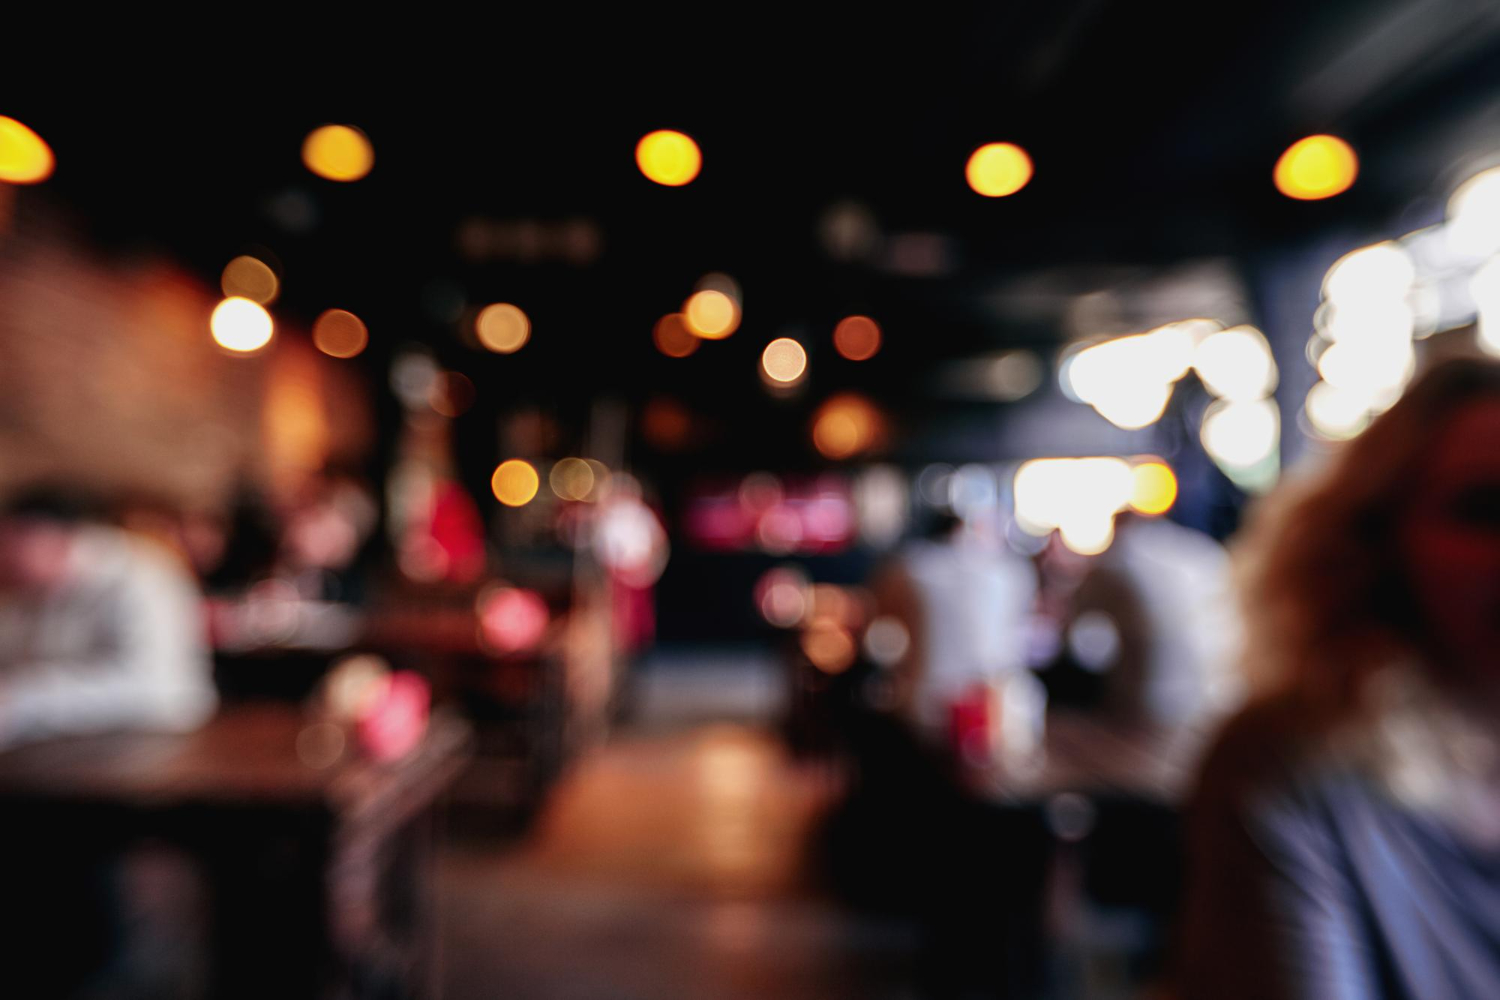
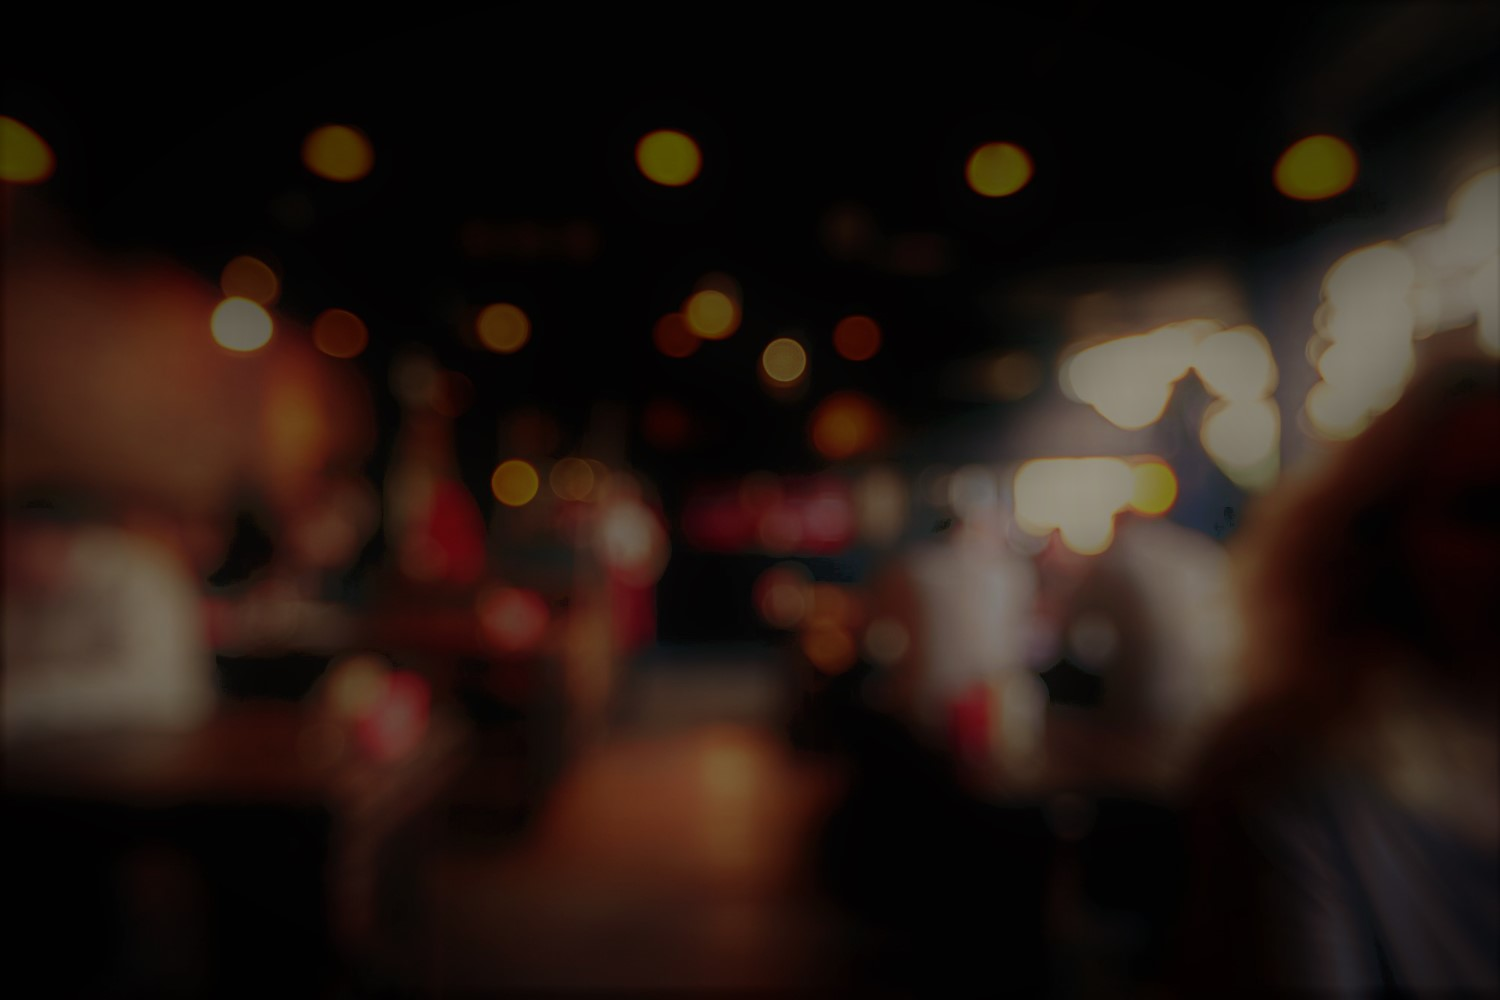
Featured Meals Section added

diff --git a/src/Pages/Homepage/FeaturedMealCard.js b/src/Pages/Homepage/FeaturedMealCard.js
@@ -1,0 +1,50 @@
+import React, { useState } from "react";
+import SubHeaderText from "../../components/SubHeaderText";
+
+const FeaturedMealCard = ({ meal }) => {
+  const [quantity, setQuantity] = useState(1);
+  const { mealTitle, mealPrice, mealThumb } = meal;
+
+  return (
+    <div className="card card-compact w-80 md:w-64 bg-white rounded-md shadow-md">
+      <figure>
+        <img src={mealThumb} className="w-full h-56" alt="popular food items" />
+      </figure>
+      <div className="card-body space-y-4">
+        <div className="flex flex-col items-center">
+          <h2 className="card-title text-center text-gray-900">{mealTitle}</h2>
+
+          <SubHeaderText>$ {mealPrice}</SubHeaderText>
+        </div>
+
+        <div className="inline-flex justify-center items-center mt-2">
+          <button
+            onClick={() => setQuantity(quantity - 1)}
+            className="bg-white rounded-l border text-gray-600 hover:bg-gray-100 active:bg-gray-200 disabled:opacity-50 inline-flex items-center px-2 py-2 border-r border-gray-200"
+          >
+            <i className="fa-solid fa-minus" />
+          </button>
+
+          <div className="bg-gray-100 border-t border-b border-gray-100 text-gray-600 hover:bg-gray-100 inline-flex items-center px-4 py-1 select-none">
+            {quantity}
+          </div>
+
+          <button
+            onClick={() => setQuantity(quantity + 1)}
+            className="bg-white rounded-r border text-gray-600 hover:bg-gray-100 active:bg-gray-200 disabled:opacity-50 inline-flex items-center px-2 py-2 border-r border-gray-200"
+          >
+            <i className="fa-solid fa-plus " />
+          </button>
+        </div>
+
+        <div className="card-actions justify-center">
+          <button className="btn btn-block btn-outline btn-accent rounded-md text-gray-900">
+            Add to Cart
+          </button>
+        </div>
+      </div>
+    </div>
+  );
+};
+
+export default FeaturedMealCard;

diff --git a/src/Pages/Homepage/FeaturedMeal.js b/src/Pages/Homepage/FeaturedMeal.js
@@ -1,0 +1,46 @@
+import React from "react";
+import { Link } from "react-router-dom";
+import { useQuery } from "react-query";
+import axios from "axios";
+
+import background from "../../assets/background6.jpg";
+import HeaderText from "../../components/HeaderText";
+import FeaturedMealCard from "./FeaturedMealCard";
+
+const getPopularMeals = () =>
+  axios.get("http://localhost:5000/api/meals/?mealTags=popular");
+
+const FeaturedMeal = () => {
+  const { isLoading, data } = useQuery("get-popular-meals", getPopularMeals);
+  const popularMealArr = data?.data?.data;
+
+  return (
+    <div
+      style={{
+        backgroundImage: `url(${background})`,
+      }}
+      className="bg-no-repeat bg-cover bg-bottom"
+    >
+      <div className="space-y-12 py-12 ">
+        <HeaderText title="Popular Meals" textColor="text-gray-100" />
+
+        <div className="flex flex-col md:flex-row md:flex-wrap items-center md:justify-start lg:justify-center gap-4 ">
+          {popularMealArr?.map((meal) => (
+            <FeaturedMealCard key={meal._id} meal={meal} />
+          ))}
+        </div>
+        <div className="flex justify-center">
+          <Link to="/menu">
+            <button className="btn btn-wide border-none rounded-md  text-gray-500 bg-yellow-100  hover:bg-emerald-500">
+              View Full Menu
+            </button>
+          </Link>
+        </div>
+      </div>
+    </div>
+  );
+};
+
+//className="grid grid-cols-1 md:grid-cols-2 lg:grid-cols-3 gap-4 place-items-center"
+
+export default FeaturedMeal;

diff --git a/src/Pages/Homepage/Hero.js b/src/Pages/Homepage/Hero.js
@@ -1,17 +1,22 @@
 import React from "react";
-import background from "../../assets/test/test-2.jpg";
-// import logo from "../../assets/hero/redTomato logo rectangular.png";
+import logo from "../../assets/hero/redTomato logo rectangular.png";
 
-function Hero({ image = "https://i.ibb.co/tJBbN44/hero-background.png" }) {
+const Hero = () => {
   return (
     <div
+      className="hero h-96 md:h-112"
       style={{
-        backgroundImage: `url(${background})`,
+        backgroundImage: `url("https://i.ibb.co/W6z49Yx/background.jpg")`,
       }}
-      className="bg-cover bg-no-repeat bg-local bg-center h-screen flex flex-col justify-center items-center "
-    ></div>
+    >
+      <div className="hero-overlay bg-opacity-60"></div>
+      <div className="hero-content text-center text-neutral-content ">
+        <div className="max-w-md">
+          <img src={logo} alt="" className="w-56 md:w-64 lg:w-80" />
+        </div>
+      </div>
+    </div>
   );
-}
-//  h-96 md:h-screen flex justify-center md:items-start lg:items-start
-//flex justify-center items-center
+};
+
 export default Hero;

diff --git a/src/components/SubHeaderText.js b/src/components/SubHeaderText.js
@@ -1,7 +1,7 @@
 import React from "react";
 
-function SubHeaderText({ title = "Title", textColor = "text-black" }) {
-  return <h1 className={`text-base font-semibold ${textColor}`}>{title}</h1>;
+function SubHeaderText({ children, textColor = "text-black" }) {
+  return <h1 className={`text-base font-semibold ${textColor}`}>{children}</h1>;
 }
 
 export default SubHeaderText;

diff --git a/src/components/FoodCategoryGridLayout.js b/src/components/FoodCategoryGridLayout.js
@@ -7,7 +7,7 @@ import Spinner from "./Spinner";
 const getCategories = () => axios.get("http://localhost:5000/api/categories");
 
 function FoodCategoryGridLayout() {
-  const { isLoading, data } = useQuery("get categories", getCategories);
+  const { isLoading, data } = useQuery("get-categories", getCategories);
 
   if (isLoading) return <Spinner />;
 

diff --git a/src/Pages/Homepage/Homepage.js b/src/Pages/Homepage/Homepage.js
@@ -1,9 +1,12 @@
-import HeroTest from "./HeroTest";
+import BookTable from "./BookTable";
+import FeaturedMeal from "./FeaturedMeal";
+import Hero from "./Hero";
 
 const Homepage = () => {
   return (
     <>
-      <HeroTest />
+      <Hero />
+      <FeaturedMeal />
     </>
   );
 };
